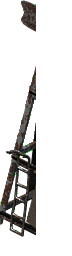
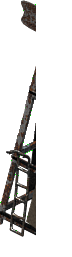
Fixed bug where pre-cut images of height 256 render incorrectly in FIFE. Fix in /utility/gfxsplit.py
git-svn-id: http://parpg-svn.cvsdude.com/parpg/trunk/PARPG@124 2475d057-1fa1-4ed2-bda5-76bff2e61f20

diff --git a/utilities/gfxsplit.py b/utilities/gfxsplit.py
@@ -131,6 +131,10 @@ def splitImage(image, filename, data):
             # TODO: Handle integer moves (i.e. > 1 tile up down)
             print "Error: Can't handle integer tile moves yet"
             sys.exit(False)
+        # if the image is 256, then adjust
+        # bug in the FIFE OpenGL code
+        if(height == 256):
+            height += 1
         # build the new surface
         new_surface = pygame.Surface((TILE_WIDTH, height), pygame.SRCALPHA, 32)
         # now blit a strip of the image across
